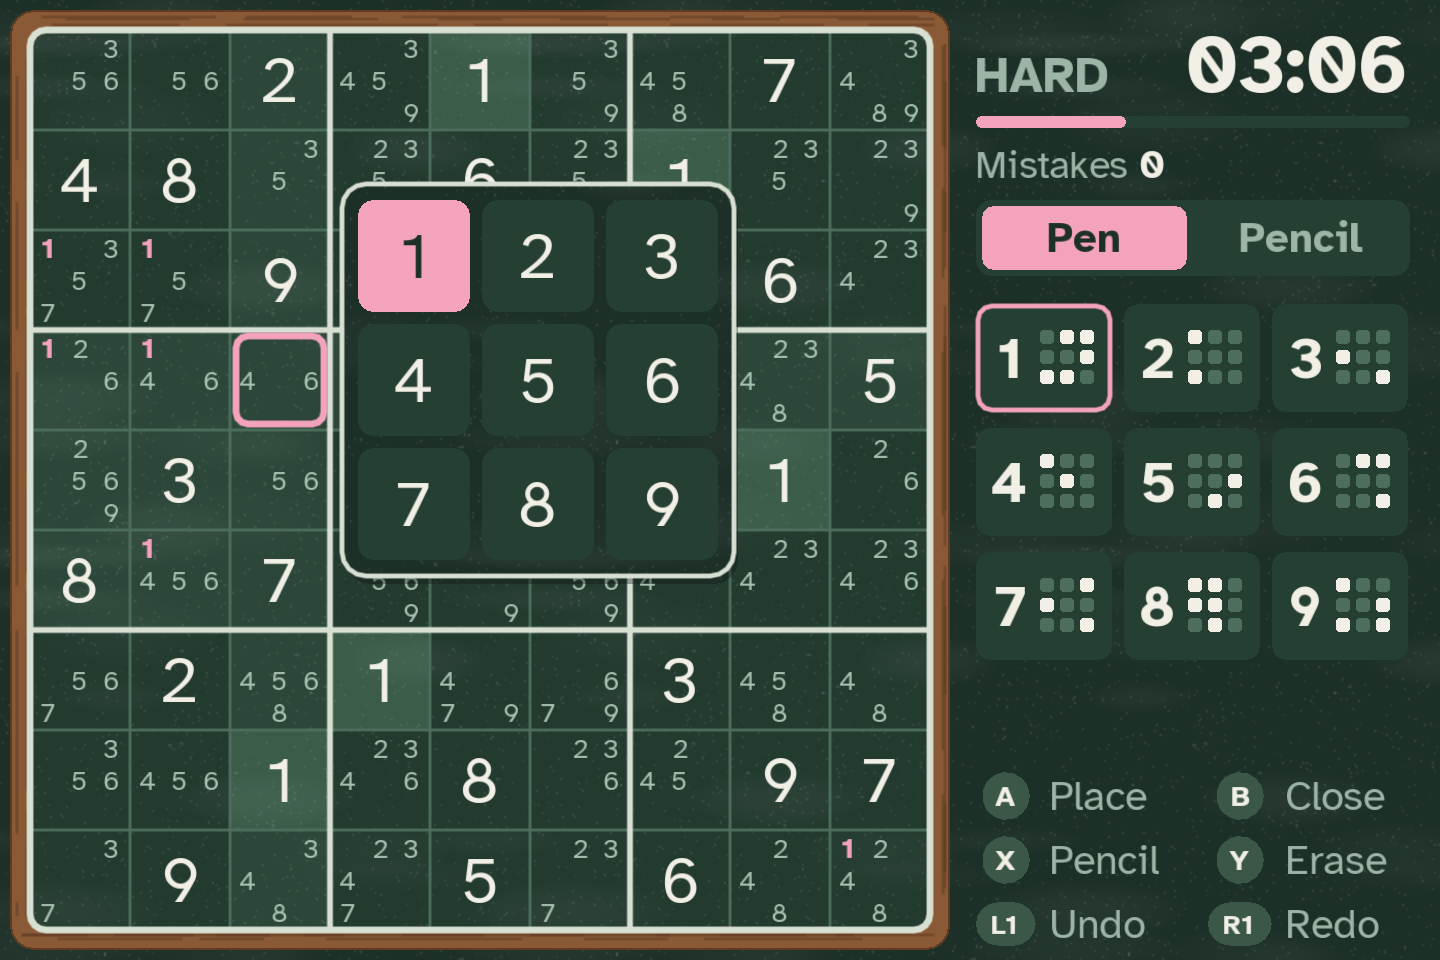
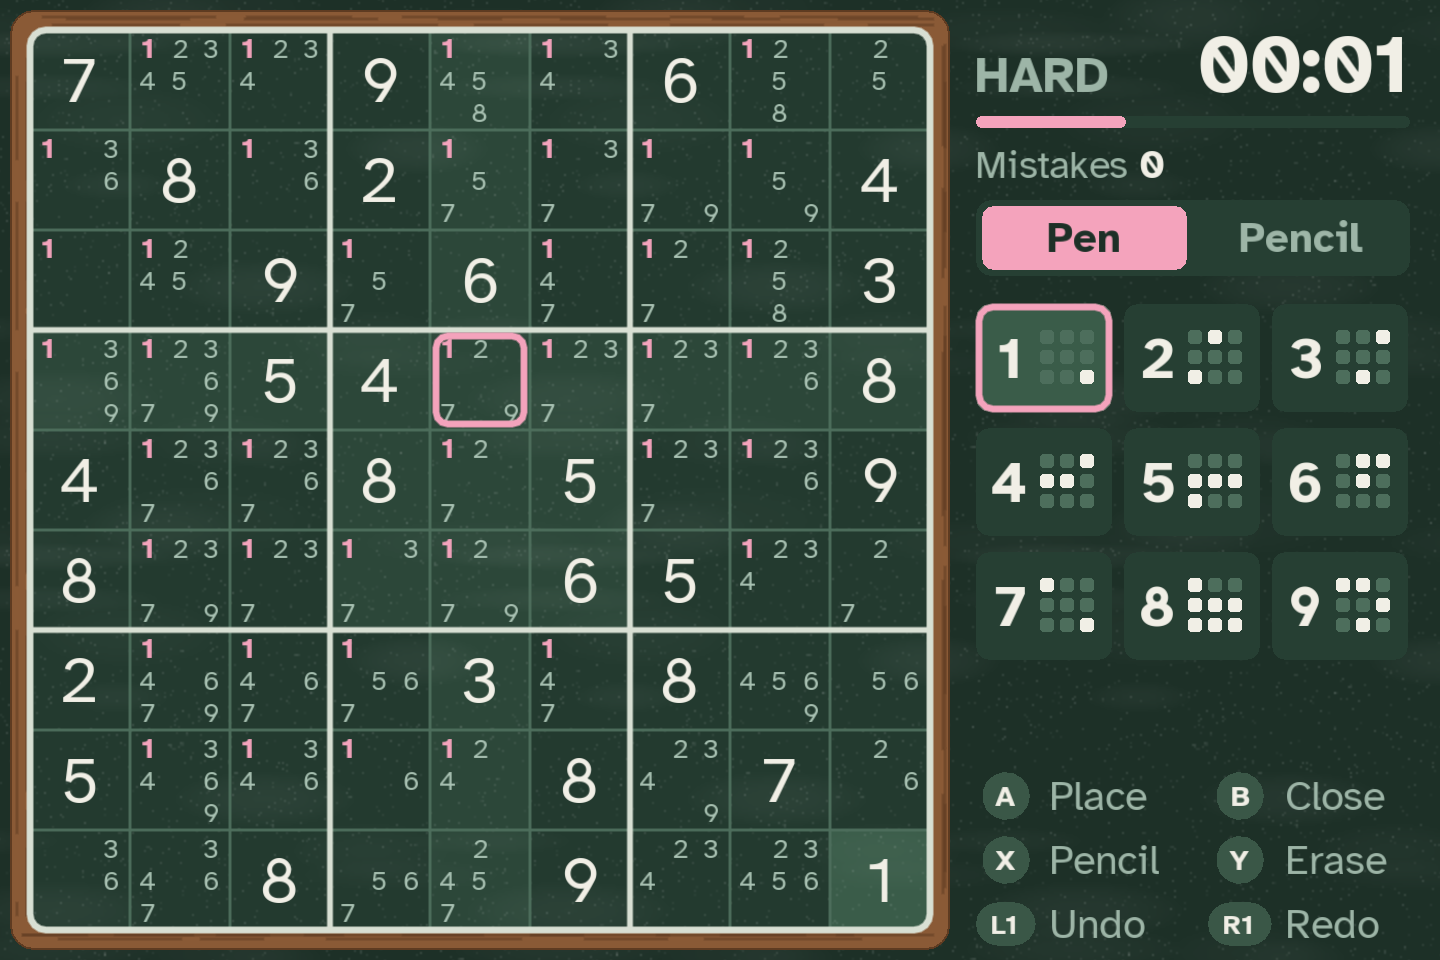
Pick numbers from the side panel, with a Number pad setting
With the side panel showing, A no longer opens the 3x3 pad over the
board: the D-pad walks the panel's number tiles, and the chosen tile is
tinted as well as outlined. Settings > Number pad switches back to the
pop-up pad. Distraction-free mode, which has no side panel, always uses
the pop-up.

diff --git a/README.md b/README.md
@@ -4,7 +4,7 @@ A Sudoku game for muOS (MustardOS) handhelds, built with LÖVE 11.5. Designed fo
 the Anbernic RG34XXSP's 720×480 screen and scaled to fit other resolutions.
 
 <img src="screenshots/title.png" alt="Title screen" width="49%"> <img src="screenshots/play.png" alt="A Hard puzzle with pencil notes" width="49%">
-<img src="screenshots/theme-paper.png" alt="Paper theme" width="49%"> <img src="screenshots/theme-chalkboard.png" alt="Chalkboard theme with the number pad open" width="49%">
+<img src="screenshots/theme-paper.png" alt="Paper theme" width="49%"> <img src="screenshots/theme-chalkboard.png" alt="Chalkboard theme, choosing a number in the side panel" width="49%">
 
 ## Features
 
@@ -20,7 +20,8 @@ the Anbernic RG34XXSP's 720×480 screen and scaled to fit other resolutions.
 - Pen and pencil modes, one-button note filling, notes that clear themselves, and a
   Large notes setting for easier reading
 - Two ways to enter numbers (Settings → Input): **Cell first** picks a cell, then its
-  number from a pad. **Number first** picks a number with L2 / R2, then A puts it in
+  number from the side panel's number tiles or a pop-up pad (Settings → Number pad).
+  **Number first** picks a number with L2 / R2, then A puts it in
   each cell you choose (see "Number-first input" below)
 - Undo and redo, optional mistake checking. With it off, **Check board** in the pause
   menu says how many of your numbers are wrong, but not which, for the cost of a hint
@@ -123,7 +124,7 @@ to use.
 | X | Switch pen / pencil | Switch pen / pencil |
 | Y | Hint, if turned on in Settings | Erase the cell |
 | L1 / R1 | Undo / redo | Undo / redo |
-| L2 / R2 | Previous / next empty cell, hold to repeat (Number first: change the number) | Same, and the pad follows |
+| L2 / R2 | Previous / next empty cell, hold to repeat (Number first: change the number) | Same, and the pad stays open |
 | Select | Fill all notes, or clear them if there are any | |
 | Start / Menu | Pause menu | Pause menu |
 
@@ -154,6 +155,11 @@ person could make right now, with the board highlighting the cells involved:
 In the hint: A does the step's action, Y goes to the next step, L1 goes back, B
 closes. Opening a hint counts as one hint. Hints work from the numbers on the board, not your notes, so
 they're right even when your notes are incomplete.
+
+**Settings → Number pad** sets where you pick the number. With **Side panel** (the
+default), the pad is the panel's nine number tiles: A starts picking there, and the
+chosen tile is tinted and outlined. **Pop-up** opens a 3x3 pad next to the cell.
+Distraction-free mode has no side panel, so it always uses the pop-up.
 
 In pen mode the pad closes after placing a number. In pencil mode it stays open so
 you can toggle several notes. Hints reveal the selected cell, or the easiest unsolved
